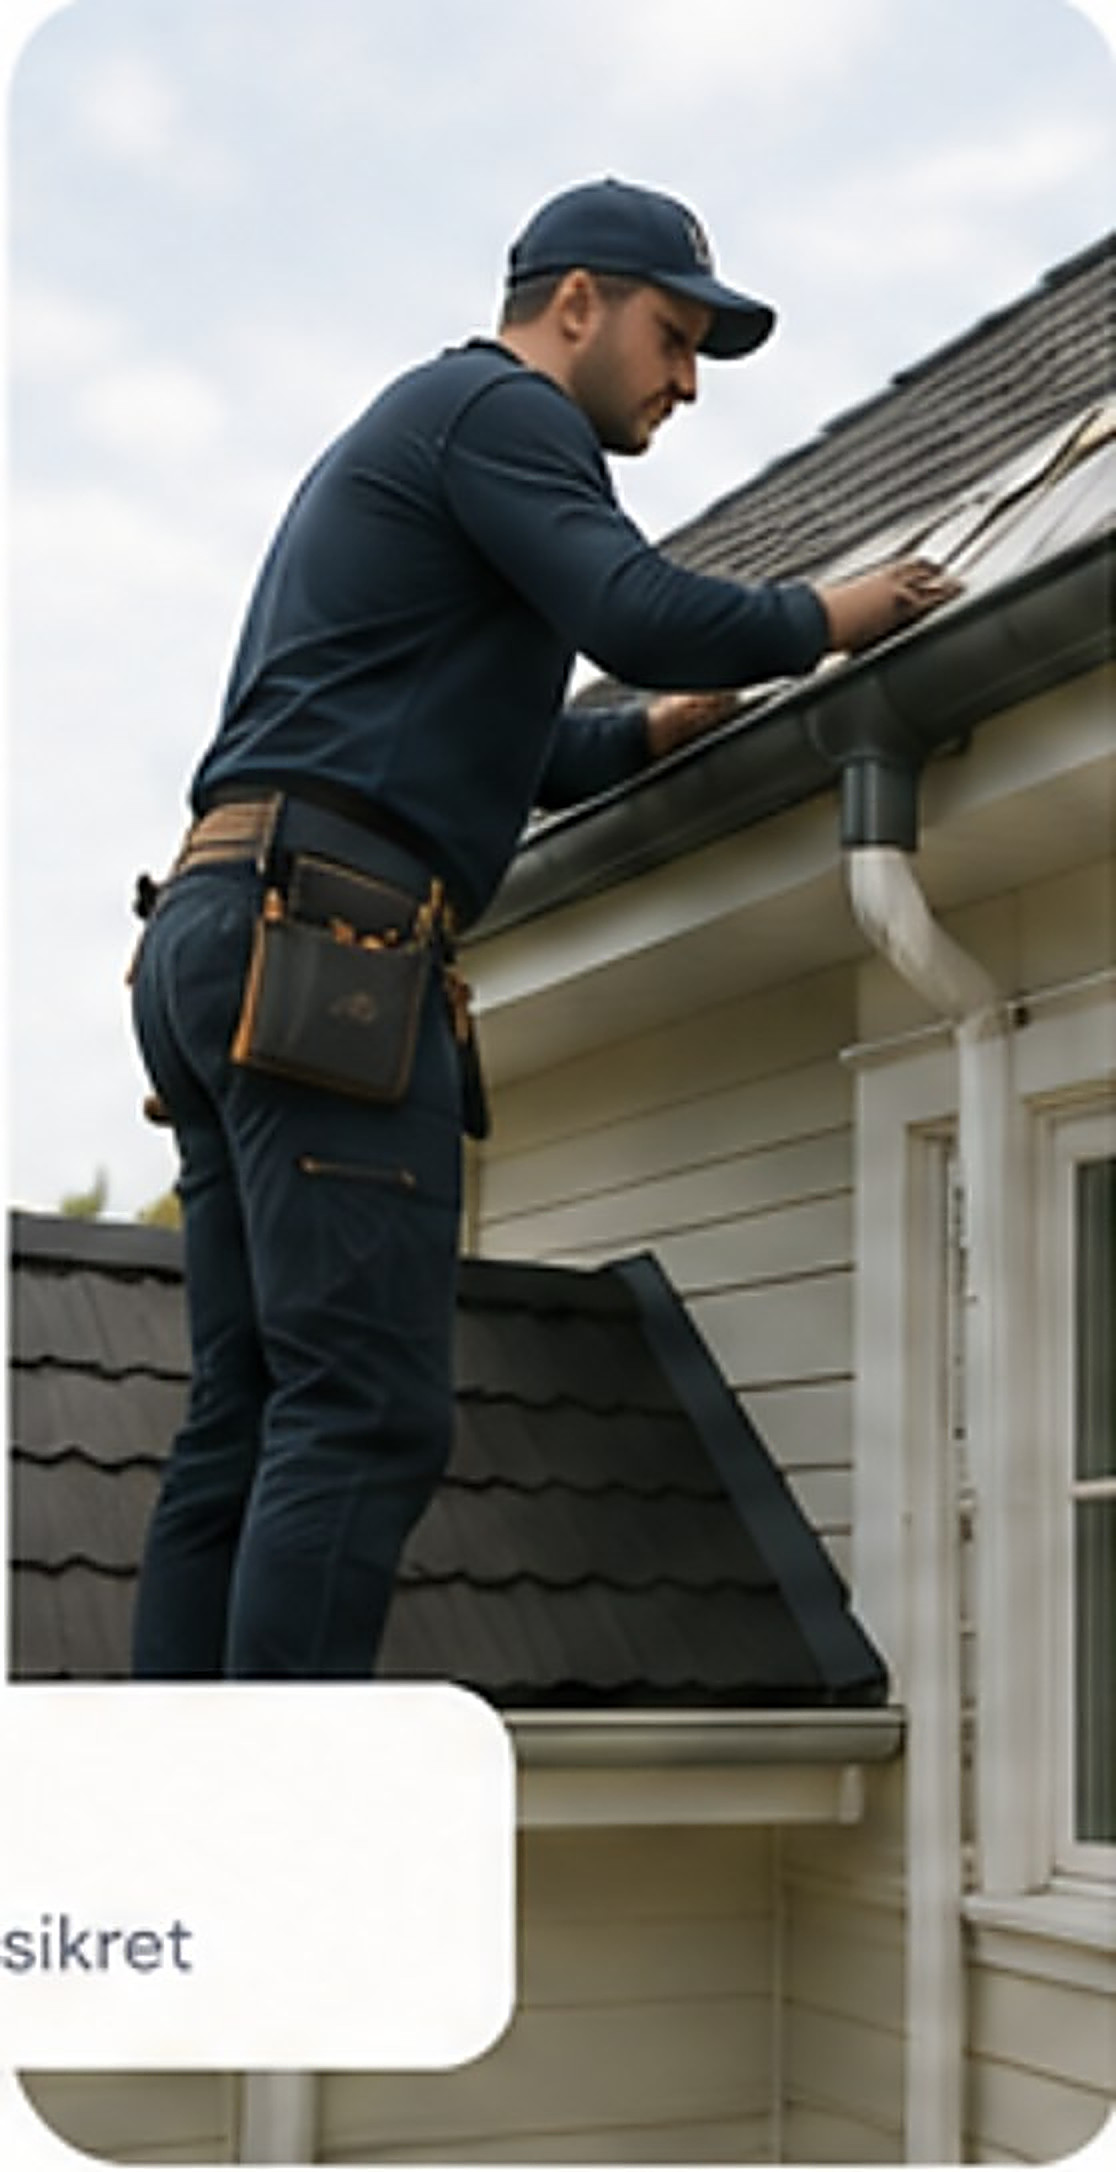
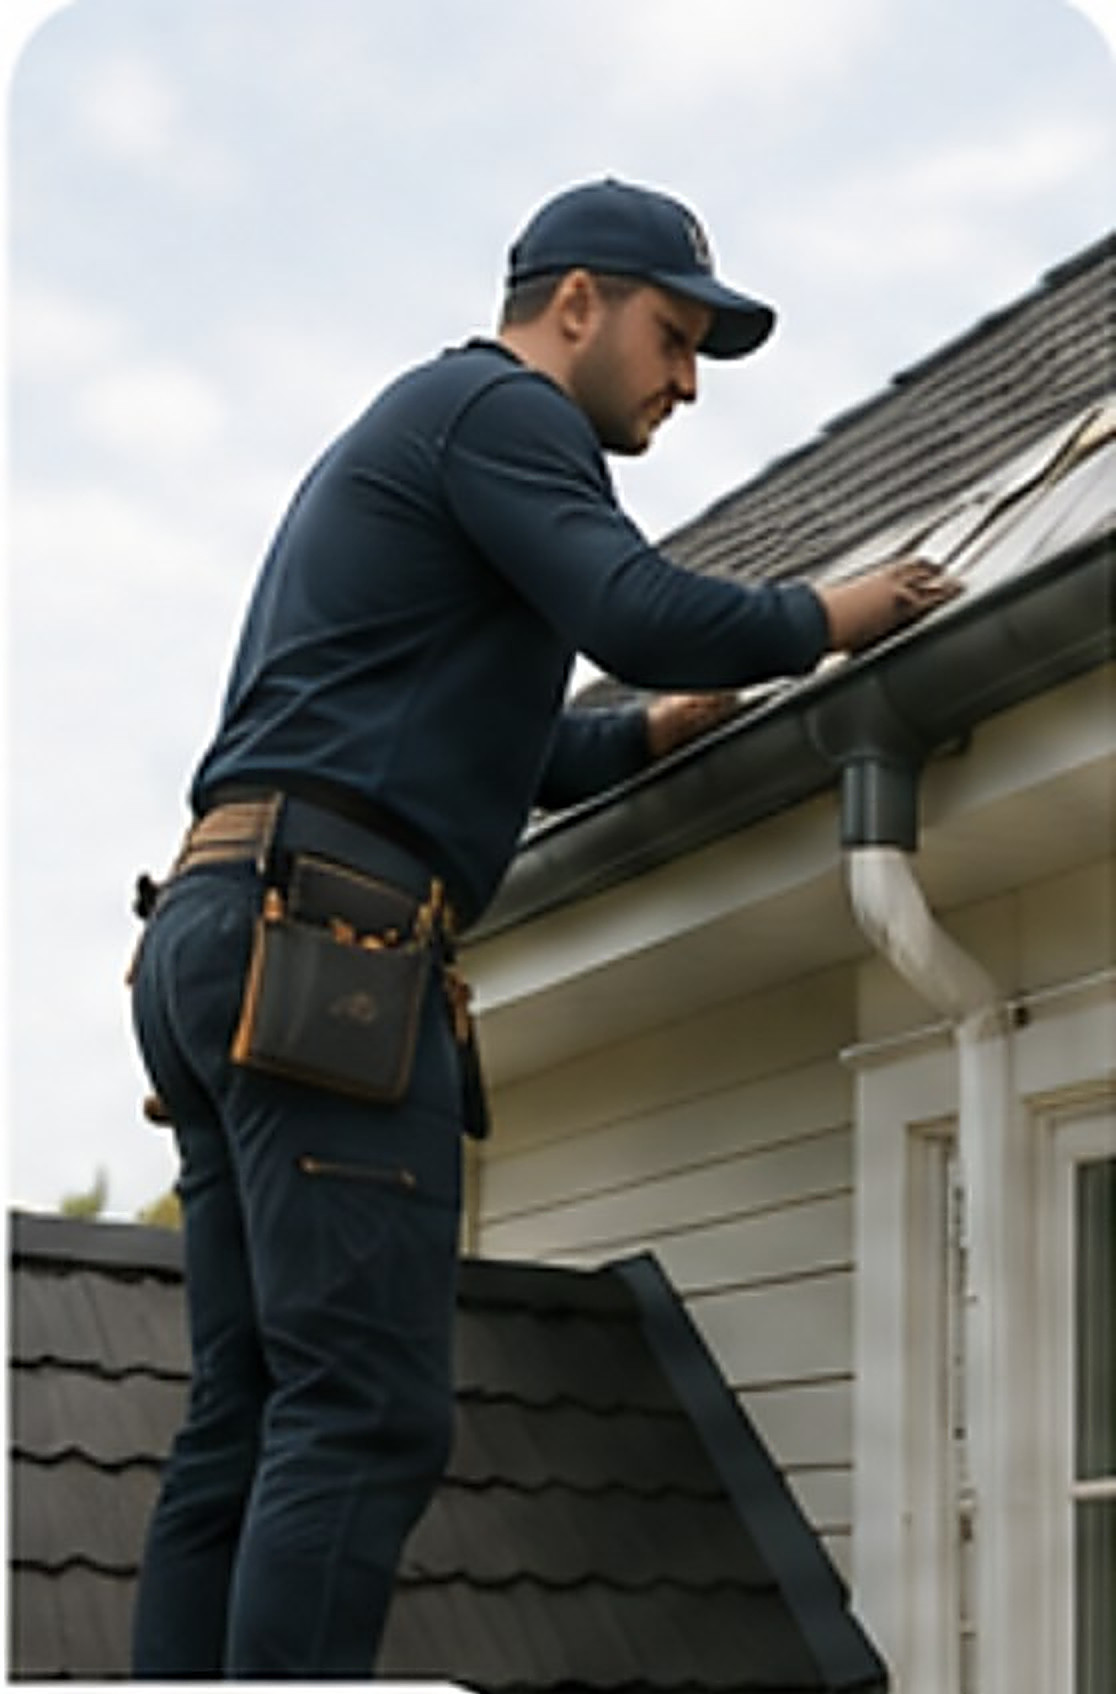
Håndverker: portrait image card instead of full-bleed; crop baked-in UI from photo

diff --git a/index.html b/index.html
@@ -548,12 +548,11 @@
 
   <!-- 8 · FÅ HJELP — HUMAN: håndverker i arbeid, brief i negativt rom -->
   <section id="handverker" ref="{{ refPro }}" data-theme="dark" style="position: relative; height: 260vh; background: #131E3A" data-screen-label="08 Håndverker" aria-label="For håndverkeren">
-    <div style="position: sticky; top: 0; height: 100vh; overflow: hidden; isolation: isolate">
-      <div style="position: absolute; inset: 0; transform: translateZ(0); backface-visibility: hidden">
-        <image-slot id="shot-contractor" shape="rect" src="{{ resContractor }}" placeholder="Shot 11 · Håndverker i arbeid, hender/verktøy synlig, plassert til venstre"></image-slot>
+    <div style="position: sticky; top: 0; height: 100vh; overflow: hidden; display: grid; grid-template-columns: repeat(auto-fit, minmax(min(100%, 300px), 1fr)); align-items: center; gap: 48px; padding: 0 clamp(24px, 7vw, 120px)">
+      <div style="position: relative; height: {{ sideImgH }}; width: min(100%, calc({{ sideImgH }} * 0.66)); justify-self: center; border-radius: 28px; overflow: hidden; box-shadow: 0 40px 100px rgba(0,0,0,0.45); transform: translateZ(0); backface-visibility: hidden">
+        <div style="position: absolute; inset: 0"><image-slot id="shot-contractor" shape="rect" src="{{ resContractor }}" placeholder="Shot 11 · Håndverker i arbeid, hender/verktøy synlig, plassert til venstre"></image-slot></div>
       </div>
-      <div style="position: absolute; inset: 0; pointer-events: none; background: linear-gradient(90deg, transparent 0%, rgba(19,30,58,0.1) 40%, rgba(19,30,58,0.7) 68%, rgba(19,30,58,0.92) 100%)"></div>
-      <div style="position: absolute; right: clamp(24px, 7vw, 120px); left: 24px; top: 50%; transform: translateY(-50%); display: flex; flex-direction: column; align-items: flex-end; gap: 28px; pointer-events: none">
+      <div style="position: relative; display: flex; flex-direction: column; align-items: flex-end; gap: 28px; pointer-events: none">
         <div style="max-width: 440px; text-align: right">
           <div style="font-size: 12px; font-weight: 700; letter-spacing: 0.14em; text-transform: uppercase; color: #D4B17A">B · Få hjelp</div>
           <h2 style="margin: 16px 0 0; font-size: clamp(30px, 3.8vw, 50px); line-height: 1.04; font-weight: 800; letter-spacing: -0.03em; color: #FFFFFF; opacity: {{ proHeadOp }}; transform: {{ proHeadTy }}; text-wrap: balance">Jobben kommer ferdig forstått.</h2>
